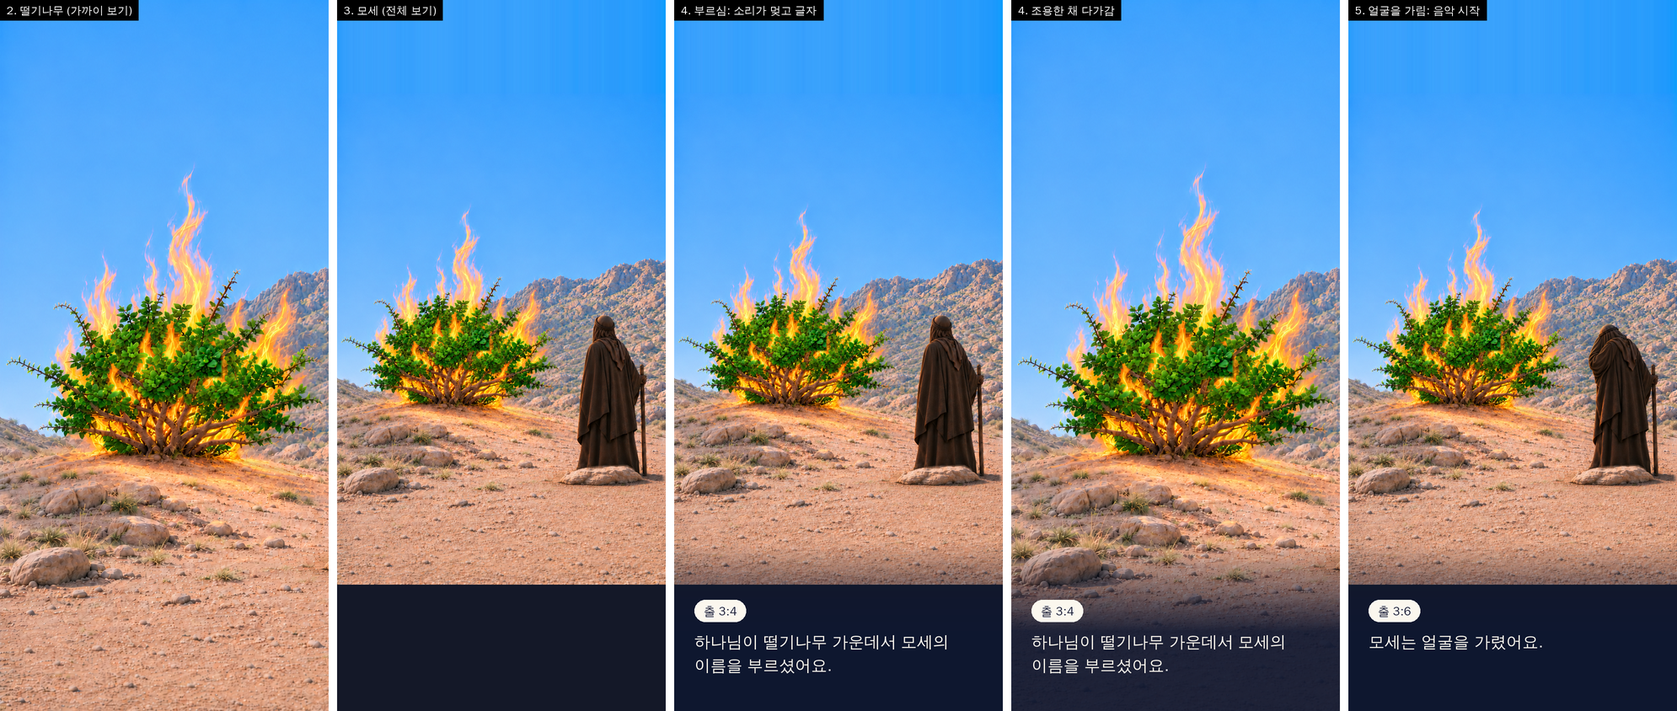
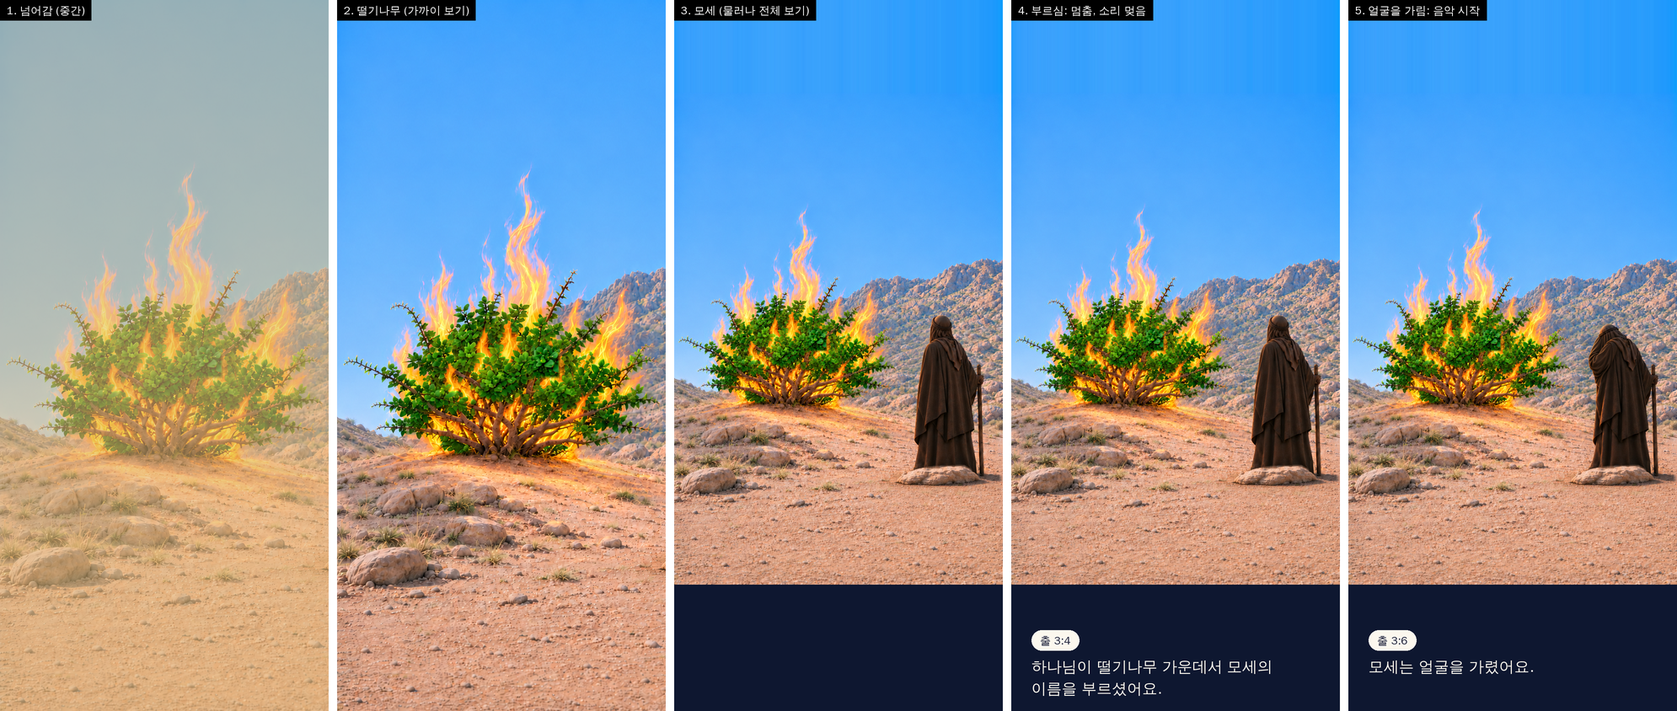
총괄: 압도 장면 설명서 세 번째 판 (별도 검증 2차 반영), 화면 모형 다시 만듦 (대표 승인 전)
- 화면은 한 번만 물러나고 부르심 때는 멈춘다 (출 3:5와 어긋나 보이지 않게)
- 그림 두 장은 겹치지 않고 한 번에 바꾼다, 새 문장 없음, 화면 크기별 식 고침
- 저장소가 공개 상태임을 적고 대표 결정 항목으로 올림

Claude-Session: https://claude.ai/code/session_011ypqq6uvjuWvRfnq3qoBtn

diff --git a/docs/09_떨기나무_압도장면.md b/docs/09_떨기나무_압도장면.md
@@ -1,85 +1,87 @@
 # 불붙은 떨기나무 압도 장면 · 정지 그림으로 보여 주는 방법
 
-- 상태: **대표 승인 전** (2026-11-19 총괄이 씀. 별도 검증 1차에서 나온 13가지를 반영해 고쳐 썼다. 재확인 중)
-- 무엇을 정하는 문서인가: 지시서 6.5절의 장면 설명(대표 승인 2026-11-13)은 '미리 그린 영상'을 생각하고 쓴 것이다. 2026-11-18에 대표가 GPT가 만든 정지 그림으로 바꾸기로 했다. 정지 그림으로 바꾸면 6.5절 그대로는 만들 수 없는 곳이 생긴다. 이 문서는 무엇이 달라지는지 밝히고 (2절), 그림을 어떤 순서와 움직임으로 보여 줄지 정한다.
+- 상태: **대표 승인 전** (2026-11-19 총괄이 씀. 별도 검증을 두 번 거쳤고 나온 지적을 반영해 두 번 고쳐 썼다. 세 번째 판)
+- 무엇을 정하는 문서인가: 지시서 6.5절의 장면 설명(대표 승인 2026-11-13)은 '미리 그린 영상'을 생각하고 쓴 것이다. 2026-11-18에 대표가 GPT가 만든 정지 그림으로 바꾸기로 했다. 정지 그림으로 바꾸면 6.5절 그대로는 만들 수 없는 곳이 생긴다. 이 문서는 무엇이 달라지는지 밝히고 (2절), 그림을 어떤 순서로 보여 줄지 정한다.
 - 근거 본문: 출 3:2-6. 지킬 규칙: 규칙서 3.3절, 지시서 6.1·6.2절, `docs/07_호렙_퀴즈와_동선.md` 4.3·4.4절.
-- 화면 모형: `docs/시안/압도장면_모형/모형_390x844.png`, `모형_375x667.png` (총괄이 지금 후보 그림으로 만든 것. 실제 게임 화면이 아니다)
+- 화면 모형: `docs/시안/압도장면_모형/` (총괄이 지금 후보 그림으로 만든 것. 실제 게임 화면이 아니다)
+- 이 문서에서 쓰는 말: '지금 후보 그림'은 GPT가 다듬은 떨기나무 그림(`docs/시안/떨기나무_압도_3/`, 카드 E-2c)이다. '마지막 다듬기'는 그 그림의 이어 붙인 흔적을 고치는 일(카드 E-2d)이다.
 
 ## 1. 한눈에 보기
 
-길이는 약 33초다. 아이는 보기만 하고 누르는 것이 없다. 쓰는 그림은 두 장이다 (모세가 서 있는 그림, 모세가 얼굴을 가린 그림).
+길이는 약 31초다. 아이는 보기만 하고 누르는 것이 없다. 쓰는 그림은 두 장이다 (모세가 서 있는 그림, 모세가 얼굴을 가린 그림). 두 그림은 모세만 다르고 나머지는 한 점도 다르지 않다.
 
-두 가지 보기를 오간다.
+화면은 **한 번만** 움직인다. 떨기나무를 크게 보여 주다가 천천히 물러나 모세까지 보여 준 뒤에는 끝까지 멈춰 있다.
 
 - **가까이 보기**: 불붙은 떨기나무가 화면 가로를 꽉 채운다 (세로로는 화면의 5분의 2쯤이고 위는 하늘, 아래는 땅이다). 모세가 서는 자리는 화면 오른쪽 밖이다.
 - **전체 보기**: 그림 전체가 보인다. 떨기나무와 그 오른쪽에 선 모세, 산, 하늘. 그림 아래에 글자를 쓰는 어두운 자리가 있다.
 
 | 순서 | 걸리는 시간 | 화면 | 글자 | 소리 |
 |---|---|---|---|---|
-| 0. 직전 | 2초 | 인형풍 세계. 부품 3을 줍고 최온이 "저 위를 봐!"라고 한 뒤 카메라가 언덕 위를 올려다보고 2초 머문다 | | 바람, 멀리 불 소리 |
-| 1. 넘어감 | 1.5초 | 화면이 밝은 종이색으로 잠깐 덮였다가 사실적인 그림이 나타난다 (가까이 보기) | 없음 | 바람이 잦아든다 |
-| 2. 떨기나무 | 5초 | 가까이 보기. 불붙은 떨기나무만 보인다. 잎은 초록 그대로다 | 없음 | 불 타는 소리가 차츰 커진다 |
-| 3. 모세 | 6초 | 화면이 천천히 물러나 전체 보기가 된다. 물러나면서 오른쪽에 선 모세의 뒷모습이 화면에 들어온다 | 없음 | 불 타는 소리 |
-| 4. 부르심 | 9초 | 글자가 천천히 떠오른다. 잠시 뒤 화면이 다시 떨기나무 쪽으로 천천히 다가간다 (가까이 보기) | 한 줄 (4절) + 출 3:4 | **모든 소리가 멎는다** |
-| 5. 얼굴을 가림 | 10초 | 화면이 다시 천천히 물러난다. 모세가 얼굴을 가리고 있다. 그대로 4초 머문다 | 한 줄 (4절) + 출 3:6 | 낮고 조용한 음악이 시작된다 |
-| 6. 돌아옴 | 1.5초 | 밝은 종이색을 거쳐 인형풍 세계로 돌아온다. 이어서 지금의 '지켜보기 1 / 5'가 시작된다 | | 음악이 이어지고 바람과 불 소리가 돌아온다 |
+| 0. 직전 | 약 3.5초 | 인형풍 세계. 부품 3을 줍고 최온이 "저 위를 봐!"라고 한 뒤 카메라가 언덕 위를 올려다보고 2초 머문다 | | 바람, 멀리 불 소리 |
+| 1. 넘어감 | 1.5초 | 화면이 모래색으로 잠깐 덮였다가 사실적인 그림이 나타난다 (가까이 보기) | 없음 | 바람과 불 소리가 절반으로 낮아진다 |
+| 2. 떨기나무 | 5초 | 가까이 보기. 불붙은 떨기나무만 보인다. 잎은 초록 그대로다. 화면이 아주 느리게 물러나기 시작한다 | 없음 | 불 타는 소리가 차츰 커진다 |
+| 3. 모세 | 6초 | 화면이 천천히 물러나 전체 보기가 된다. 오른쪽에 선 모세의 뒷모습이 화면에 들어온다 | 없음 | 불 타는 소리 |
+| 4. 부르심 | 8초 | **화면이 멈춘다.** 글자가 천천히 떠오른다 | 한 줄 (4절) + 출 3:4 | **모든 소리가 멎는다** |
+| 5. 얼굴을 가림 | 9초 | 그림이 얼굴을 가린 모세의 그림으로 바뀐다. 화면은 멈춰 있다 | 한 줄 (4절) + 출 3:6 | 낮고 조용한 음악이 시작된다 |
+| 6. 돌아옴 | 1.5초 | 모래색을 거쳐 인형풍 세계로 돌아온다. 이어서 지금의 '지켜보기 1 / 5'가 시작된다 | | 음악이 이어지고 바람과 불 소리가 돌아온다 |
 
 ## 2. 지시서 6.5절에서 달라지는 것 (대표가 알고 정할 것)
 
-정지 그림으로 바꾸면서, 그리고 대표가 고른 그림(E-2b 묶음)에 맞추면서 아래가 달라진다.
+정지 그림으로 바꾸면서, 그리고 대표가 바탕으로 정한 그림에 맞추면서 아래가 달라진다.
 
 | 6.5절 (2026-11-13 승인) | 이 문서 | 까닭 |
 |---|---|---|
-| 3번 "불티가 위로 솟고 열기로 공기가 일렁인다" | **불꽃이 움직이지 않는다. 불티와 일렁임이 없다** | 정지 그림이다. 그림 위에 효과를 덧그리면 얼굴이나 사람 같은 모양이 우연히 생길 수 있고 그것을 화면마다 확인할 수 없다 (지시서 6.2). 움직이는 것은 화면(다가감, 물러남)과 소리뿐이다 |
-| 5번 "불은 계속 타고" | 불은 그림 속에서 처음부터 끝까지 같은 모양이다 | 위와 같다 |
-| 4번 "모세의 뒷모습이 불빛에 어둡게 떠오른다", 아래 줄 "뒷모습과 윤곽만" | **맑은 낮이다. 모세의 옷 주름, 머리쓰개, 지팡이까지 또렷이 보인다.** 얼굴은 보이지 않는다 | 대표가 고른 그림이 밝은 낮 그림이다. 본문에 없는 '어두워짐'을 피하는 데는 이쪽이 더 맞다 |
+| 3번 "불티가 위로 솟고 열기로 공기가 일렁인다", 5번 "불은 계속 타고" | **불꽃이 31초 동안 움직이지 않는다. 불티와 일렁임이 없다.** 지금 인형풍 화면의 떨기나무는 불꽃과 불티가 움직이므로, 평소 화면보다 이 장면의 불이 덜 움직인다 | 정지 그림이다. 그림 위에 효과를 덧그리면 얼굴이나 사람 같은 모양이 우연히 생길 수 있고 그것을 화면마다 확인할 수 없다 (지시서 6.2). 이 장면에서 움직이는 것은 화면(한 번 물러남)과 소리뿐이다 |
+| 4번 "모세의 뒷모습이 불빛에 어둡게 떠오른다", 아래 줄 "뒷모습과 윤곽만" | **맑은 낮이다. 모세의 옷 주름, 머리쓰개, 지팡이까지 또렷이 보인다.** 얼굴은 보이지 않는다 | 대표가 바탕으로 정한 그림이 밝은 낮 그림이다. 본문에 없는 '어두워짐'을 피하는 데는 이쪽이 더 맞다 |
 | 아래 줄 "주변이 어두워 보이는 것은 카메라 효과로만" | 어두워지는 것이 없다 | 그림이 어둡지 않다 |
-| 5번 글자가 한 가지 | 나이 단계마다 말투가 다른 세 가지 (4절) | 게임의 다른 글과 맞춘다 |
+| 6번 "모세가 얼굴을 가린다" (움직임) | **얼굴을 가리는 움직임은 나오지 않는다.** 서 있는 그림이 얼굴을 가린 그림으로 한 번에 바뀐다 | 정지 그림 두 장이다. 두 그림을 천천히 겹치면 그 사이에 머리가 둘인 반투명한 사람 모양이 생긴다 (3.3절) |
 | 6번에는 글자가 없다 | **글자 한 줄을 넣는다** (출 3:6) | 8~10세가 그림만 보고는 무슨 일인지 모를 수 있다. 장절로 성경에 이어 준다 |
+| 5번 글자가 한 가지 | 나이 단계마다 말투가 다른 세 가지 (4절) | 게임의 다른 글과 맞춘다 |
 | 7번 "성경책에서 직접 읽어 보세요" 안내 | 돌아온 뒤 지켜보기 1 / 5에서 온우가 하는 말로 대신한다 | 이미 같은 뜻의 말이 있다 (7절) |
+| 2번·3번에서 화면이 영상으로 "넘어간다" | 모래색 한 가지를 거쳐 넘어간다 | 인형풍 화면과 그림을 직접 겹치면 인형 모세와 아이들이 불 위에 비쳐 보일 수 있다 (3.3절) |
 | 1번 소리 "바람, 양 떼 소리" | 바람, 멀리 불 소리 | 지금 게임에 양 떼 소리가 없다. 새 소리를 만들지 않는다 |
-| (6.5절에 없음) | 화면이 떨기나무로 다가갔다 물러나는 움직임이 두 번 있다 | 그림이 멈춰 있어서 화면을 움직인다. 모세의 모습이 바뀌는 순간을 화면 밖에서 처리하려는 것이기도 하다 (3.3절) |
-| 길이 20~40초, 처음에는 끝까지 보고 다시 볼 때 건너뛴다 | 약 33초, 같다 | |
-
-그 밖에 알고 가는 점: 그림 속 모세의 지팡이는 곧고, 인형풍 모세의 지팡이는 위가 굽었다. 그림을 고칠 때 맞출지 대표가 정한다 (권장: 그대로 둔다. 뒷모습이고 화면이 바뀌는 사이라 눈에 잘 띄지 않는다).
+| 아래 줄 "인형풍 모세와 생김새가 어긋나 보이지 않는다" | 옷 색이 다르다 (인형풍 모세는 밝은 속옷에 붉은 갈색 겉옷, 그림은 온통 짙은 갈색). 지팡이도 다르다 (인형풍은 위가 굽었고 그림은 곧다) | 그림이 또렷해서 차이가 보인다. ⚠ 눈에 거슬리는지는 만든 뒤 대표가 보고 정한다 |
+| 길이 20~40초, 처음에는 끝까지 보고 다시 볼 때 건너뛴다 | 약 31초, 같다 | 처음 볼 때는 31초 동안 건너뛸 수 없다 |
 
 ## 3. 화면
 
 ### 3.1 순서별 움직임
 
-- 다가가고 물러나는 움직임은 모두 천천히 시작해 천천히 멈춘다. 흔들림, 빠른 확대, 번쩍임이 없다.
-- 1번 (넘어감): 인형풍 화면이 0.7초 동안 밝은 종이색(게임의 종이색, 아이보리)으로 덮이고, 0.8초 동안 그 위로 그림이 가까이 보기로 나타난다. 인형풍 화면과 그림을 직접 겹치지 않는다 (3.3절).
-- 2번 (떨기나무): 가까이 보기에서 5초 멈춰 있다.
-- 3번 (모세): 6초에 걸쳐 전체 보기로 물러난다. 모세는 화면 오른쪽 끝에서 들어온다.
-- 4번 (부르심): 소리가 멎는다. 글자가 1초 동안 떠오른다. 2초 머문 뒤 6초에 걸쳐 가까이 보기로 다가간다. 글자는 그대로 있다. 소리가 없어도 글자와 화면의 움직임이 있어 고장으로 보이지 않는다.
-- 5번 (얼굴을 가림): 음악이 시작된다. 6초에 걸쳐 전체 보기로 물러난다 (처음 1초에 앞의 글자가 사라진다). 모세가 얼굴을 가린 모습으로 들어온다. 물러나기 시작하고 3초 뒤에 글자가 떠오른다. 다 물러난 뒤 4초 머문다.
-- 6번 (돌아옴): 0.7초 동안 밝은 종이색으로 덮이고 0.8초 동안 인형풍 세계(0번의 올려다보는 화면)가 나타난다.
+- 빠른 번쩍임, 흔들림, 빠른 확대가 없다. 움직임은 천천히 시작해 천천히 멈춘다.
+- 1번 (넘어감): 인형풍 화면이 0.7초 동안 모래색(게임의 모래색)으로 덮이고, 곧바로 0.8초 동안 그 위로 그림이 가까이 보기로 나타난다. 다 덮인 채로 멈춰 있지 않는다.
+- 2번 (떨기나무): 가까이 보기. 5초 동안 아주 느리게 물러나기 시작한다 (전체 움직임의 20분의 1쯤). 소리를 꺼 둔 아이에게도 화면이 살아 있다는 것이 보이게 하려는 것이다.
+- 3번 (모세): 이어서 6초에 걸쳐 전체 보기까지 물러난다. 모세는 화면 오른쪽 끝에서 들어온다.
+- 4번 (부르심): 화면이 멈추고 소리가 멎는다. 글자가 1초 동안 떠오른다. 끝날 때 1초 동안 사라진다. 화면은 떨기나무 쪽으로 다가가지 않는다. 바로 다음 절에서 하나님이 가까이 오지 말라고 하시기 때문이다 (출 3:5).
+- 5번 (얼굴을 가림): 그림이 얼굴을 가린 모세의 그림으로 한 번에 바뀐다. 모세만 달라지고 떨기나무, 불, 산, 하늘, 땅은 한 점도 달라지지 않는다. 그때 음악이 시작된다. 1초 뒤에 글자가 1초 동안 떠오른다.
+- 6번 (돌아옴): 0.7초 동안 모래색으로 덮이고, 곧바로 0.8초 동안 인형풍 세계(0번의 올려다보는 화면)가 나타난다.
+- ⚠ 조용한 8초가 고장처럼 느껴지지 않는지, 그림이 한 번에 바뀌는 것이 어색하지 않은지는 만든 뒤 대표가 휴대폰으로 보고 정한다.
 
 ### 3.2 전체 보기의 모양
 
-- 그림의 가로가 화면 가로에 꽉 찬다. 휴대폰 화면이 그림보다 길쭉해서 남는 곳이 생긴다 (보통 휴대폰에서 화면 세로의 3분의 1쯤. 그림은 화면의 3분의 2쯤을 차지한다).
-- 남는 곳의 아래쪽은 글자 자리다. 어두운 남색 바탕이고 글자는 여기에만 쓴다. 글자가 떨기나무, 불, 모세를 가리지 않는다.
-- 남는 곳의 위쪽은 그림 맨 윗줄의 하늘색을 위로 이어 칠한다. 하늘이 위로 이어진 것처럼 보인다.
-- 화면이 짧은 휴대폰에서는 글자 자리가 그림의 맨 아래 땅 부분을 조금 덮는다. 모세가 선 바위까지는 덮지 않는다.
+- 그림의 가로가 화면 가로에 꽉 찬다. 휴대폰 화면이 그림보다 길쭉해서 남는 곳이 생긴다 (390×844 휴대폰에서 그림이 화면 세로의 약 70%를 차지한다. 화면 모형 참고).
+- 화면 맨 아래는 글자 자리다. 위에서 아래로 차츰 어두운 남색이 되고, 글자는 이 어두운 자리에만 쓴다. 화면이 물러나는 동안 서서히 나타난다. 글자가 떨기나무, 불, 모세, 모세가 선 바위를 가리지 않는다.
+- 그림 위에 남는 곳은 그림 맨 윗줄의 하늘색을 위로 이어 칠한다. 하늘이 위로 이어진 것처럼 보인다.
+- 화면이 짧은 휴대폰(인터넷 주소창이 보이는 화면 등)에서는 어두운 자리가 그림의 맨 아래 땅을 덮는다. 아주 짧은 화면에서는 그림을 조금 줄여서 모세가 선 바위가 가려지지 않게 한다 (10절).
 
 ### 3.3 그림이 바뀌는 순간에 지킬 것
 
-지시서 6.2절은 사람처럼 보이는 모양이 한 장면이라도 생기면 쓰지 않는다고 정했다. 두 그림을 겹쳐서 바꾸면 그 사이에 누구도 확인하지 않은 화면이 생긴다 (별도 검증에서 그림 둘을 반씩 겹쳐 보니 머리와 어깨가 둘인 반투명한 사람 모양이 나왔다). 그래서:
+지시서 6.2절은 사람처럼 보이는 모양이 한 장면이라도 생기면 쓰지 않는다고 정했다. 두 그림을 천천히 겹쳐서 바꾸면 그 사이에 누구도 확인하지 않은 화면이 생긴다 (별도 검증에서 그림 둘을 반씩 겹쳐 보니 머리와 어깨가 둘인 반투명한 사람 모양이 나왔다). 그래서:
 
-- **두 그림을 겹쳐서 바꾸지 않는다.** 모세가 서 있는 그림에서 얼굴을 가린 그림으로는, 가까이 보기에서 (모세 자리가 화면 밖일 때) 바꿔 끼운다. 두 그림은 떨기나무 쪽이 한 점도 다르지 않아서 바뀌는 것이 보이지 않는다 (총괄이 비교했다. 10절).
-- 인형풍 화면과 그림도 직접 겹치지 않는다. 밝은 종이색 한 가지를 거친다. 종이색 위에서 그림이 옅게 보일 뿐 두 화면이 섞이지 않는다.
+- **두 그림을 겹쳐서 바꾸지 않는다. 한 번에 바꾼다.** 화면에는 늘 대표가 승인한 그림 한 장만 있다.
+- 인형풍 화면과 그림도 직접 겹치지 않는다. 모래색 한 가지를 거친다. 모래색 위에서 그림이 옅게 보일 뿐 두 화면이 섞이지 않는다.
 - 그림 위에 불티, 반짝임, 일렁임, 빛줄기, 후광을 덧그리지 않는다.
-- 화면을 산 쪽으로 다가가지 않는다. 산의 바위에는 크게 확대하면 얼굴이나 집처럼 보일 수 있는 모양이 있다 (`docs/시안/떨기나무_압도_3/총괄_검토.md`). 가까이 보기보다 더 크게 다가가지 않는다.
+- 가까이 보기보다 더 크게 보여 주지 않는다. 산 쪽을 크게 보여 주지 않는다. 산의 바위에는 크게 확대하면 얼굴이나 집처럼 보일 수 있는 모양이 있다 (`docs/시안/떨기나무_압도_3/총괄_검토.md`).
+- 장면 한가운데에 화면 전체가 밝아지거나 어두워지는 일을 넣지 않는다. 본문에 없는 빛이나 어둠의 사건처럼 보이기 때문이다.
 
 ### 3.4 움직임 없이 보여 주는 방법
 
-아래 세 경우에는 다가가고 물러나는 움직임을 빼고 전체 보기에 멈춘 채로 보여 준다.
+아래 세 경우에는 가까이 보기와 물러나는 움직임을 빼고 처음부터 전체 보기에 멈춘 채로 보여 준다.
 
 - 휴대폰 설정에서 '움직임 줄이기'를 켠 아이
-- 가로가 세로보다 긴 화면처럼 가까이 보기를 만들 수 없는 화면 (10절)
+- 가로가 세로보다 긴 화면 (가까이 보기에 떨기나무가 다 들어가지 않는다)
 - 만든 뒤 가까이 보기가 흐릿하다고 대표가 판단한 경우
 
-이때의 순서: 넘어감 → 모세가 서 있는 그림을 전체 보기로 11초 → 부르심 (소리가 멎고 글자, 9초) → 밝은 종이색을 거쳐 (0.6초 덮이고 0.6초 나타남) 얼굴을 가린 그림 → 글자와 음악, 10초 → 돌아옴. 글자와 소리는 같다. 이 방법에서는 처음부터 모세가 보인다.
+이때의 순서: 넘어감 (1.5초) → 모세가 서 있는 그림을 전체 보기로 11초 (불 소리) → 부르심 8초 → 얼굴을 가림 9초 → 돌아옴 (1.5초). 글자, 소리, 그림이 바뀌는 방법, 전체 길이(31초)는 같다. 이 방법에서는 처음부터 모세가 보인다.
 
 ## 4. 화면에 쓰는 글자
 
@@ -88,19 +90,19 @@
 | 순서 | 8~10세 | 11~13세 | 14~19세 | 장절 표시 |
 |---|---|---|---|---|
 | 4. 부르심 | 하나님이 떨기나무 가운데서 모세의 이름을 부르셨어요. | 하나님이 떨기나무 가운데서 모세를 부르셨어요. | 하나님이 떨기나무 가운데서 모세를 부르셨다. | 출 3:4 |
-| 5. 얼굴을 가림 | 모세는 얼굴을 가렸어요. | 모세는 하나님 뵙기를 두려워해서 얼굴을 가렸어요. | 모세는 얼굴을 가렸다. | 출 3:6 |
+| 5. 얼굴을 가림 | 모세는 얼굴을 가렸어요. | 모세는 하나님 뵙기를 두려워해서 얼굴을 가렸어요. | 모세는 하나님 뵙기를 두려워하여 얼굴을 가렸다. | 출 3:6 |
 
 문구의 출처:
 
-- 8~10세와 11~13세의 네 문구는 지금 게임의 지켜보기 문구(`web/js/content.js` EX-01의 출 3:4, 출 3:6)에서 한 문장씩 그대로 가져왔다. 총괄이 글자 그대로 들어 있는 것을 확인했다.
-- 14~19세의 부르심 문구는 지시서 6.5절 5번의 문구에 마침표를 붙인 것이다.
-- 14~19세의 얼굴을 가림 문구 "모세는 얼굴을 가렸다."는 8~10세 문구를 14~19세 말투로 적은 새 문장이다. 지금 게임의 14~19세 문구("모세는 하나님 뵙기를 두려워하여 얼굴을 가렸다.")를 쓰지 않은 까닭: 개역개정 본문과 매우 닮았는데 이 장면에서는 그 한 줄만 크게 뜬다 (규칙서 7절은 개역개정 본문을 싣지 않기로 했다). ⚠ 지금 게임에 이미 들어 있는 그 문구도 같은 문제가 있는지 목회자 감수와 저작권 확인 때 함께 본다.
+- 새로 지은 문장이 없다. 14~19세의 부르심 문구를 뺀 다섯 문구는 지금 게임의 지켜보기 문구(`web/js/content.js` EX-01의 출 3:4, 출 3:6)에서 문장 하나 또는 문장의 한 부분을 글자 그대로 가져왔다. 총괄이 글자 그대로 들어 있는 것을 확인했다. 그 문구들은 독립 검증을 거쳤다 (지시서 2절).
+- 14~19세의 부르심 문구는 지시서 6.5절 5번의 문구(대표 승인)에 마침표를 붙인 것이다.
+- ⚠ 이 문구들은 성경 본문을 풀어 쓴 것이라 본문과 닮았다 (특히 11~13세와 14~19세의 얼굴을 가림 문구). 규칙서 7절은 개역개정 본문을 싣지 않기로 했다. 닮은 정도가 괜찮은지는 저작권 확인과 목회자 감수 때 게임의 다른 문구와 함께 본다. 이 장면에서는 한 줄만 크게 뜬다는 점을 그때 함께 알린다.
 
 그 밖에:
 
 - 1~3번에는 글자가 없다.
-- 글자는 화면 아래의 어두운 글자 자리에 쓴다. 장절 표시는 지금 게임의 장절 표시와 같은 모양으로 글자 위에 둔다. '말씀 조각' 같은 머리글은 붙이지 않는다.
-- 글자는 1초 동안 떠오르고 1초 동안 사라진다. 부르심 글자는 9초, 얼굴을 가림 글자는 7초 동안 보인다.
+- 글자는 화면 맨 아래의 어두운 자리에 쓴다. 장절 표시는 지금 게임의 장절 표시와 같은 모양으로 글자 위에 둔다. '말씀 조각' 같은 머리글은 붙이지 않는다.
+- 글자는 1초 동안 떠오른다. 부르심 글자와 얼굴을 가림 글자 모두 약 7초 동안 보인다.
 - 세 아이의 말("탐험대 이야기")은 이 장면에 넣지 않는다. 세 아이는 이 장면에서 화면에 나오지 않고 말하지 않는다.
 - 8~10세에게 글을 읽어 주는 기능(규칙서 5절)은 지금 게임에 없고 이 장면에도 넣지 않는다. 넣게 되면 부르심의 조용함과 겹치지 않게 다시 정한다.
 
@@ -110,18 +112,19 @@
 
 | 순서 | 소리 |
 |---|---|
-| 1. 넘어감 | 바람이 1.5초 동안 잦아든다 |
-| 2. 떨기나무, 3. 모세 | 불 타는 소리가 5초 동안 차츰 커진 뒤 그대로 이어진다. 가장 클 때의 크기는 지금 게임에서 아이가 떨기나무에 가장 가까이 갔을 때(넘지 못하는 선)의 크기다. 그보다 크게 하지 않는다 |
+| 1. 넘어감 | 바람과 불 타는 소리가 1.5초 동안 그때 크기의 절반으로 낮아진다 |
+| 2. 떨기나무 | 불 타는 소리만 5초에 걸쳐 차츰 커진다. 다 커졌을 때의 크기는 지금 게임에서 아이가 떨기나무에 가장 가까이 갔을 때(넘지 못하는 선)의 크기다. 그보다 크게 하지 않는다. 바람은 낮아진 그대로다 |
+| 3. 모세 | 그대로 이어진다 |
 | 4. 부르심 | 바람과 불 소리를 포함한 모든 소리가 0.5초에 걸쳐 멎고, 4번이 끝날 때까지 조용하다 |
 | 5. 얼굴을 가림 | 낮고 조용한 음악이 지금 게임의 지켜보기 음악과 같은 크기로 2초에 걸쳐 시작된다. 불과 바람 소리는 없다 |
 | 6. 돌아옴 | 음악이 이어지고, 바람과 불 소리가 평소 크기로 돌아온다 |
 
 - 하나님의 음성을 소리로 만들지 않는다. 목소리, 울림, 천둥, 종소리, 합창 같은 소리를 넣지 않는다 (지시서 6.2).
-- 소리 끄기 단추가 눌려 있으면 모든 소리가 꺼진 채로 같은 화면이 나온다. 이때 부르심의 조용함은 글자가 떠오르고 화면이 떨기나무로 다가가는 것으로 전해진다.
+- 소리 끄기 단추가 눌려 있거나 휴대폰이 무음이면 소리 없이 같은 화면이 나온다. 이때 부르심은 화면이 멈추고 글자가 떠오르는 것으로만 전해진다.
 
 ## 6. 건너뛰기와 다시 보기
 
-- 처음 볼 때는 건너뛸 수 없다. 화면을 눌러도 넘어가지 않는다.
+- 처음 볼 때는 건너뛸 수 없다. 화면을 눌러도 넘어가지 않는다 (약 31초).
 - 한 번 끝까지 본 뒤에 다시 이 장면에 오면 오른쪽 위에 "건너뛰기" 단추가 나온다. 누르면 6번(돌아옴)으로 간다.
 - 끝까지 보았는지는 그 기기 안에만 적어 둔다. 개인 정보는 적지 않는다 (규칙서 6절). 지금 게임에는 자녀 프로필이 없다. 프로필이 생기면 프로필마다 따로 적는다 (그때까지는 한 기기를 형제가 함께 쓰면 둘째 아이에게도 건너뛰기가 보인다).
 
@@ -131,7 +134,7 @@
 - 뒤: 인형풍 세계로 돌아와 지금의 지켜보기 1 / 5 ~ 5 / 5 (출 3:4, 3:5, 3:6, 3:7-8, 3:10-12)가 그대로 이어진다. 지켜보기의 문구와 순서는 바꾸지 않는다.
 - 압도 장면은 '먼저 본다', 지켜보기는 '성경에서 차례대로 확인한다'이다. 지켜보기 1 / 5에서 온우가 "하나님이 하신 말씀은 우리가 지어내면 안 돼. 성경책에서 직접 읽어 보자."라고 말한다.
 - 알고 가는 점: 압도 장면에서 모세가 얼굴을 가린 뒤 (출 3:6) 인형풍 세계로 돌아오면 인형풍 모세는 떨기나무 앞에 선 처음 모습이고, 지켜보기가 출 3:4부터 다시 짚는다. 출 3:4와 3:6이 두 번 나온다. 지시서 6.5절이 승인될 때부터 있던 흐름이다. ⚠ 화면으로 보았을 때 어색한지는 만든 뒤 대표가 보고 정한다.
-- 아이들은 압도 장면 동안 언덕 아래 제자리에 있다. 다가가지 않는다 (규칙서 3.3, `docs/07` 4.4절).
+- 아이들은 압도 장면 동안 언덕 아래 제자리에 있다. 다가가지 않는다 (규칙서 3.3, `docs/07` 4.4절). 가까이 보기는 아이들이 다가간 것이 아니라 그림을 크게 보여 주는 것이고, 하나님이 부르시기 전인 2번에만 나온다.
 
 ## 8. 성경 근거와 지킬 것
 
@@ -153,56 +156,64 @@
 
 본문에 근거가 없거나 본문과 순서가 달라 목회자 판단이 필요한 것 (`docs/07` 4.5절에 더한다):
 
+- 2번에서 불붙은 떨기나무만 화면에 크게 나오는 것. 불이 곧 하나님인 것처럼 읽히지 않는지. (부르심 글자가 나올 때는 떨기나무와 모세가 함께 보이는 전체 보기다.)
+- 하나님이 부르시는 순간을 소리가 멎는 것으로 나타내는 것 (지시서 6.2절이 목회자 확인이 필요하다고 한 것).
 - 잎이 초록이고 연기와 재가 없는 것. 본문은 사라지지 않았다, 타지 않는다고만 적는다 (출 3:2-3).
 - 그림 속 모세: 고개를 숙이고 소매로 얼굴을 가리는 모습 (본문은 얼굴을 가렸다고만 적는다), 옷차림과 머리쓰개, 지팡이를 짚은 것, 납작한 바위 뒤에 선 것, 떨기나무와의 거리와 모세가 향한 쪽.
 - 맑은 낮이라는 것, 떨기나무의 생김새와 크기.
-- 하나님이 부르시는 순간을 소리가 멎는 것으로 나타내는 것 (지시서 6.2절이 목회자 확인이 필요하다고 한 것).
-- 이 장면이 출 3:4에서 3:6으로 바로 이어지는 것. 3:5(신을 벗으라 하심)와 3:6 앞부분(하나님이 자신이 누구신지 밝히심)은 그림으로 보여 주지 않고 뒤의 지켜보기 글로 전한다.
+- 이 장면이 출 3:4에서 3:6으로 바로 이어지는 것. 모세의 대답(3:4 뒷부분), 3:5(가까이 오지 말고 신을 벗으라 하심), 3:6 앞부분(하나님이 자신이 누구신지 밝히심)은 그림으로 보여 주지 않고 뒤의 지켜보기 글로 전한다. 그래서 8~10세 글("모세는 얼굴을 가렸어요.")에는 얼굴을 가린 까닭이 없다. 까닭은 돌아온 뒤 지켜보기 3 / 5에 나온다.
 - 부르심의 글이 나오기 전에 모세가 이미 떨기나무 가까이에 서 있는 것. 본문은 모세가 보려고 오는 것을 보시고 부르셨다고 적는다 (출 3:4).
-- 화면이 떨기나무로 다가갔다가 물러나는 것 (보여 주는 방법이며 사건이 아니다).
 
 ## 9. 그림 파일
 
 - 쓰는 그림은 두 장이다: 모세가 서 있는 그림, 모세가 얼굴을 가린 그림. 떨기나무만 있는 그림은 이 장면에 쓰지 않는다 (가까이 보기가 그 구실을 한다).
-- 대표가 직접 보고 승인한 그림만 게임에 남긴다 (지시서 6.2). 지금 후보는 E-2c 그림(`docs/시안/떨기나무_압도_3/`)이고, 이어 붙인 흔적을 고치는 E-2d가 끝나면 그 그림을 대표가 보고 정한다.
-- **만드는 동안에는 지금 후보 그림을 '임시 그림'으로 넣어 만든다.** 그림이 확정되기를 기다리지 않고 장면을 만들어 보기 위해서다. 임시 그림이 든 채로는 밖으로 내보내지 않는다. 진행판에 '임시 그림'이라고 적어 둔다. 대표가 그림을 승인하면 파일만 바꿔 끼운다.
+- 대표가 직접 보고 승인한 그림만 게임에 남긴다 (지시서 6.2). 지금 후보 그림은 아직 승인 전이고, 마지막 다듬기가 끝나면 대표가 보고 정한다.
+- **만드는 동안에는 지금 후보 그림을 '임시 그림'으로 넣어 만든다** (대표가 12절 3번에서 허락하면). 그림이 확정되기를 기다리지 않고 장면을 만들어 보기 위해서다. 진행판에 '임시 그림'이라고 적어 둔다. 대표가 그림을 승인하면 파일만 바꿔 끼운다.
+- ⚠ **이 저장소는 지금 누구나 볼 수 있는 공개 상태다 (2026-11-19 총괄이 확인).** 그래서 저장소에 올린 시안 그림과 문서는 이미 밖에서 볼 수 있다. 임시 그림을 게임에 넣어 올리면 그것도 그렇다. GPT 그림 사용 조건의 약관 원문은 아직 확인하지 못했다. 저장소를 비공개로 바꿀지는 대표가 정한다 (12절 3번).
 - 게임용 파일: 원본(가로 1024, 세로 1536)을 자르거나 줄이지 않고 용량이 작은 사진 형식(JPG)으로만 바꾼다. 한 장 450KB 이하. 총괄이 만든다. 이것은 그림 스타일 가이드 5.2절(가로 900 × 세로 1200, 300KB 이하)과 다른 규격이다. 5.2절은 2D 시범판의 배경 그림 규격이고, 이 장면은 3D 게임 쪽이며 그림이 세로로 더 길다. **승인되면 그림 스타일 가이드에 5.3절 '압도 장면 그림'으로 더한다.**
-- 3D 미리보기 파일이 지금 약 2.3MB인데 그림 두 장이 들어가면 약 3.5MB가 된다 (추정). 처음 여는 데 걸리는 시간이 늘어난다. ⚠ 실제 휴대폰에서 얼마나 걸리는지는 만든 뒤 확인한다.
-- ⚠ 가까이 보기에서는 그림이 전체 보기보다 약 1.4배 크게 보인다. 흐릿해 보이는지는 만든 뒤 대표가 휴대폰으로 보고 정한다. 흐릿하면 3.4절의 방법으로 바꾼다.
-- ⚠ GPT 그림 사용 조건의 약관 원문은 아직 확인하지 못했다. 밖으로 내보내기 전에 확인한다.
+- 3D 미리보기 파일이 지금 약 2.4MB인데 그림 두 장이 들어가면 약 3.5MB가 된다 (추정). 처음 여는 데 걸리는 시간이 늘어난다. ⚠ 실제 휴대폰에서 얼마나 걸리는지는 만든 뒤 확인한다.
+- ⚠ 가까이 보기에서는 그림이 전체 보기보다 약 1.5배 크게 보인다. 덤불 한가운데의 덧댄 조각(마지막 다듬기에서 고칠 곳)도 그만큼 크게 보인다. 흐릿하거나 흠이 보이는지는 만든 뒤 대표가 휴대폰으로 보고 정한다. 그러면 3.4절의 방법으로 바꾼다.
 
 ## 10. 만드는 쪽을 위해 정해 둔 것 (대표는 건너뛰어도 된다)
 
-그림의 점은 왼쪽 위가 (0, 0)이고 가로 1024, 세로 1536이다. 아래 숫자는 E-2c 그림에서 총괄이 잰 값이다. 그림을 바꿔 끼울 때 다시 잰다.
+그림의 점은 왼쪽 위가 (0, 0)이고 가로 1024, 세로 1536이다. 아래 숫자는 지금 후보 그림에서 총괄이 잰 값이다. 그림을 바꿔 끼울 때 다시 잰다.
 
-- 떨기나무와 불: 가로 14~690, 세로 353~1009. 모세가 있는 곳: 가로 720~1023, 세로 684~1229. 두 그림은 가로 0~719가 한 점도 다르지 않다.
-- **바꿔 끼우는 기준은 가로 703 하나로 쓴다.** 가까이 보기에서 화면에 보이는 오른쪽 끝은 그림의 가로 703이다. 게임용 파일로 바꾼 뒤 두 그림의 가로 0~703이 같은지 다시 비교한다.
+- 떨기나무와 불: 가로 14~690, 세로 353~1009. 모세가 있는 곳: 가로 720~1023, 세로 684~1229 (모세가 선 바위의 아래 끝이 1229). 두 그림은 가로 0~719가 한 점도 다르지 않다.
+- 그림판: 그림 위쪽에 맨 윗줄의 색을 세로로 이어 칠한 하늘 띠를 붙여 하나로 다룬다. 화면은 이 그림판의 어디를 얼마나 크게 보여 주는지만 바꾼다. 그림판 밖(그림 아래와 좌우)은 게임의 남색이다.
+- 글자 자리: 전체 보기에서 화면 맨 아래 150을 남색으로 덮는다. 윗변에서 아래로 50에 걸쳐 차츰 진해지고 그 아래는 다 남색이다. 글자와 장절 표시는 다 진해진 곳에 쓴다. 3번에서 화면이 물러나는 동안 서서히 나타나고 6번까지 그대로 있다. 가까이 보기에는 없다. 글자가 다 들어가지 않으면 글씨를 줄이지 말고 글자 자리를 키우되, 아래 전체 보기의 식에 있는 150도 같은 값으로 바꾼다.
 - 화면의 가로를 W, 세로를 H라 한다 (게임 틀의 크기. 틀은 가로 560까지만 넓어진다).
-- 가까이 보기: 그림을 `max(W ÷ 703, H ÷ 1536)`배로 그린다. 보이는 곳의 오른쪽 끝을 그림의 가로 703에 맞춘다. 세로는 떨기나무의 가운데(세로 681)를 화면 가운데에 두되 그림 밖이 보이지 않게 한다. (390×844에서는 가로 0~703, 세로 0~1521이 보인다. 375×667에서는 가로 0~703, 세로 56~1306이 보인다.)
-- 전체 보기: 그림을 `W ÷ 1024`배로 그린다. 화면 맨 아래 150은 글자 자리다. 그림의 아랫변을 글자 자리 바로 위에 맞춘다. 그러면 그림이 화면 위로 넘치는 화면에서는 그림의 윗변을 화면 위에 맞추고 글자 자리가 그림 아래쪽을 덮게 둔다 (375×667에서 그림의 세로 1413부터 덮인다. 땅뿐이다). 그림 위에 남는 곳은 그림 맨 윗줄의 색을 세로로 이어 칠한다.
-- 글자 자리: 게임의 남색. 위쪽 50은 위로 갈수록 옅어진다. 글씨는 게임의 말씀 글씨, 종이색.
-- 움직임 없이 보여 주는 방법(3.4절)을 쓰는 화면: 가로가 세로보다 긴 화면, 그리고 세로가 가로의 1.5배보다 짧아 전체 보기의 그림이 화면보다 길어지는 화면. 이때는 그림 전체가 들어가게 줄이고 좌우를 남색으로 채운다.
+- 가까이 보기: 그림을 `W ÷ 703`배로 그린다. 그림의 가로 0~703이 화면 가로에 꽉 찬다 (모세는 720부터라 화면 밖이다). 세로는 떨기나무의 가운데(세로 681)를 화면 가운데에 두되 그림 아래 밖(남색)이 보이지 않게 한다. 화면이 아주 길어 그림 세로가 모자라면 그림 아랫변을 화면 아래에 맞추고 위는 하늘 띠가 보이게 한다.
+- 전체 보기: 화면 맨 아래 150은 글자 자리다. 그림을 `min(W ÷ 1024, (H − 150) ÷ 1300)`배로 그리고 가로 가운데에 둔다. 그림의 아랫변을 글자 자리 윗변에 맞추되, 그러면 그림 윗변이 화면 위로 넘치는 화면에서는 그림 윗변을 화면 위 끝에 맞춘다 (그림 아래쪽이 글자 자리 밑으로 들어간다. 어느 화면에서든 그림의 세로 1300 위쪽은 글자 자리에 가리지 않는다). 예: 390×844에서는 그림 위에 하늘 띠가 109 보이고 글자 자리는 그림을 가리지 않는다. 375×667에서는 그림의 세로 1412부터 글자 자리에 들어간다. 360×560에서는 그림이 조금 줄어 좌우에 남색이 19씩 보이고 세로 1300부터 글자 자리에 들어간다.
+- 가까이 보기에서 전체 보기로 물러날 때는 그림판을 그리는 배율과 자리를 함께 고르게 바꾼다 (천천히 시작해 천천히 멈춤). 2번의 5초 동안 전체 움직임의 5%를, 3번의 6초 동안 나머지를 움직인다.
+- 가로가 세로보다 긴 화면에서는 3.4절의 방법(처음부터 전체 보기)을 쓴다.
+- 넘어갈 때 거치는 색은 게임의 모래색(#E4BE7E)이다. 글자 자리의 글씨는 게임의 말씀 글씨, 종이색이다.
+- 0번: 최온의 말에서 '다음'을 누르면 지켜보기 창과 음악을 시작하지 않고 올려다보는 카메라로 간다. 카메라가 자리 잡은 뒤 2초를 센다 (지금 카메라가 자리 잡는 데 약 1.5초 걸린다). 그 뒤 1번을 시작한다. 6번이 끝나면 지금 게임이 최온의 말 뒤에 하던 일(지켜보기 1 / 5 창, 음악)을 그대로 한다.
 - 장면 동안 숨기는 것: 위쪽 표시줄, 목표 문구, 도감 단추, 사진기 단추, 소리 단추, 조종 막대. "건너뛰기"만 조건이 될 때 보인다. 소리를 꺼 둔 상태는 그대로 따른다.
-- 장면 동안에는 떨기나무와의 거리로 불 소리를 정하는 지금의 계산을 멈춘다.
+- 장면 동안에는 떨기나무와의 거리로 불 소리를 정하는 지금의 계산을 멈춘다. 4번의 '소리가 멎음'은 게임의 전체 소리 크기를 0.5초 뒤에 평소의 100분의 1 이하로 만드는 것이다.
+- 5번에서 그림을 바꾸는 때는 4번의 글자가 다 사라진 바로 뒤다. 바꾸기 직전과 직후에 화면을 찍는다.
+- 6번에서는 글자와 그림이 함께 모래색에 덮인다.
 - 그림 준비: 호렙 산이 시작될 때 두 그림을 미리 불러 둔다. 0번의 2초가 지나도 준비되지 않았으면 3초까지 더 기다린다. 그래도 안 되면 이 장면 없이 지켜보기로 가고, 본 것으로 적지 않는다.
 - 중간에 게임을 나갔다 돌아오면: 멈춰 있다가 그 순서(1~6번)의 처음부터 다시 한다. 소리도 그 순서의 처음 상태로 맞춘다.
 - '끝까지 보았음'은 6번이 시작될 때 적는다. 건너뛰기를 누르면 소리는 6번과 같이 돌아온다.
-- 자동 조작 때는 장면의 시간을 5분의 1로 줄이는 시험용 값을 둔다 (전체 점검이 나이 단계마다 33초씩 길어지지 않게). 화면 사진은 줄인 시간에서도 순서마다 찍는다.
+- 게임용 그림 파일은 `web3d/assets/awe/bush_2.jpg`(서 있는 모세), `bush_3.jpg`(얼굴을 가린 모세)에 둔다. 3D 미리보기에 묶는 방법은 지금 인물 모델을 묶는 방법을 따른다.
+- 자동 조작 때는 순서마다 멈췄다가 신호를 받으면 다음 순서로 가는 시험용 값을 둔다 (전체 점검이 나이 단계마다 31초씩 길어지지 않게, 그리고 순서마다 화면을 찍을 수 있게).
 
 ## 11. 다 만든 뒤 확인하는 방법
 
-1. 자동 조작이 나이 단계 셋에서 이 장면을 끝까지 지나가고 화면을 찍는다: 1번의 중간(종이색 위에 그림이 옅게 보일 때), 2번, 3번의 끝, 4번의 글자가 뜬 때, 4번의 끝(바꿔 끼우기 직전)과 5번의 처음(직후), 5번의 끝, 6번의 중간. 화면 크기는 390×844와 375×667 두 가지다.
-2. 4번과 5번의 글자가 4절의 표와 글자 그대로 같은지 자동으로 맞춰 본다.
-3. 바꿔 끼우기 직전과 직후의 사진이 같은지 자동으로 비교한다.
-4. 4번 동안 소리 크기 값이 0인지 자동 조작이 읽어 확인한다.
-5. 총괄이 찍힌 사진을 모두 열어 본다. 두 그림이나 인형풍 화면이 겹쳐 보이는 사진이 없는지, 그림 위에 덧그린 것이 없는지, 글자가 떨기나무와 모세를 가리지 않는지 본다.
-6. 대표가 휴대폰에서 직접 본다. 그림, 길이, 소리, 조용한 9초, 돌아온 뒤의 흐름을 보고 승인하거나 고칠 곳을 말한다.
-7. 목회자 감수 때 8절의 '목회자 판단이 필요한 것'을 여쭌다.
+1. 자동 조작이 나이 단계 셋에서 이 장면을 끝까지 지나가고 화면을 찍는다: 1번의 중간(모래색 위에 그림이 옅게 보일 때), 2번의 처음, 3번의 끝, 4번의 글자가 뜬 때, 5번에서 그림을 바꾸기 직전과 직후, 5번의 글자가 뜬 때, 6번의 중간.
+2. 화면 크기 세 가지로 찍는다: 390×844, 390×664 (인터넷 주소창이 보일 때), 가로가 긴 화면 844×390 (3.4절의 방법). '움직임 줄이기'를 켠 경우도 한 번 찍는다.
+3. 4번과 5번의 글자가 4절의 표와 글자 그대로 같은지 자동으로 맞춰 본다.
+4. 그림을 바꾸기 직전과 직후의 사진에서 모세 둘레 밖(그림의 가로 0~719에 해당하는 곳)이 같은지 자동으로 비교한다.
+5. 4번 동안 게임의 전체 소리 크기 값이 평소의 100분의 1 이하인지 자동 조작이 읽어 확인한다.
+6. 총괄이 찍힌 사진을 모두 열어 본다. 두 그림이나 인형풍 화면이 겹쳐 보이는 사진이 없는지, 그림 위에 덧그린 것이 없는지, 글자가 떨기나무·모세·바위를 가리지 않는지 본다.
+7. 대표가 휴대폰에서 직접 본다. 그림, 길이, 소리, 조용한 8초, 그림이 바뀌는 순간, 돌아온 뒤의 흐름을 보고 승인하거나 고칠 곳을 말한다.
+8. 목회자 감수 때 8절의 '목회자 판단이 필요한 것'을 여쭌다.
 
 ## 12. 대표가 정할 것
 
-1. 이 방법대로 만들어도 되는가. 2절의 달라지는 것(불꽃이 움직이지 않는다, 불티와 일렁임이 없다, 모세가 어두운 윤곽이 아니라 또렷이 보인다)을 받아들이는가. (총괄 권장: 예)
+1. **정지 그림으로 이렇게 만들어 볼 것인가.** 알고 정할 것: 이 장면의 불은 31초 동안 움직이지 않는다 (지금 인형풍 화면의 불은 움직인다). 모세가 어두운 윤곽이 아니라 또렷이 보인다. 얼굴을 가리는 움직임 없이 그림이 한 번에 바뀐다. 처음 볼 때는 31초 동안 건너뛸 수 없다. (총괄 권장: 예. 만들어서 대표가 휴대폰으로 본 뒤에 판단한다. 보고 나서 "황홀하지 않다"면 지시서 6.4절에 남겨 둔 '미리 그린 영상' 방법을 다시 본다. 그 방법은 아직 시험해 보지 않았다.)
 2. 얼굴을 가리는 순서에 글자 한 줄을 넣는가. (총괄 권장: 넣는다)
-3. 그림이 확정되기 전에 지금 후보 그림을 임시 그림으로 넣어 만들기 시작해도 되는가. (총괄 권장: 예. 밖으로 내보내지 않는다)
+3. 그림이 확정되기 전에 지금 후보 그림을 임시 그림으로 넣어 만들기 시작해도 되는가. 저장소가 공개 상태라 임시 그림도 밖에서 볼 수 있게 된다. (총괄 권장: 저장소를 비공개로 바꾼 뒤에 예. 비공개로 바꾸면 다른 계정의 GPT가 저장소를 볼 수 있게 대표가 초대해 주어야 한다)
+4. 그림 속 모세의 지팡이(곧음)와 옷 색을 인형풍 모세에 맞춰 고칠 것인가. (총괄 권장: 그대로 두고, 만든 뒤 보고 거슬리면 고친다)
 
 승인되면 총괄이 임시 그림 파일을 만들고, 그림 스타일 가이드에 5.3절을 더하고, 코드 줄에 작업 카드를 넣는다. 구현은 작업 줄의 계정(GPT·Gemini)이 하고, 총괄이 11절대로 확인한다.

diff --git a/docs/시안/압도장면_모형/읽어보기.md b/docs/시안/압도장면_모형/읽어보기.md
@@ -1,5 +1,5 @@
 # 압도 장면 화면 모형 (2026-11-19 총괄)
 
-- `docs/09_떨기나무_압도장면.md`의 순서 2~5를 휴대폰 두 가지 크기(390×844, 375×667)로 그려 본 것이다.
-- 총괄이 E-2c 후보 그림(`docs/시안/떨기나무_압도_3/`)을 자르고 줄여 붙여 만들었다. GPT가 만든 그림이 아니고 실제 게임 화면도 아니다. 글씨체와 글자 자리의 모양은 실제와 다를 수 있다.
-- 왼쪽부터: 2번 떨기나무 (가까이 보기) / 3번 모세 (전체 보기) / 4번 부르심 (글자) / 4번 조용한 채 다가감 / 5번 얼굴을 가림.
+- `docs/09_떨기나무_압도장면.md`의 순서 1~5를 휴대폰 화면 두 가지(390×844, 그리고 인터넷 주소창이 보일 때인 390×664)로 그려 본 것이다.
+- 총괄이 지금 후보 그림(`docs/시안/떨기나무_압도_3/`)을 자르고 줄여 붙여 만들었다. GPT가 만든 그림이 아니고 실제 게임 화면도 아니다. 글씨체는 실제와 다르다.
+- 왼쪽부터: 1번 넘어감의 중간 (모래색 위에 그림이 옅게) / 2번 떨기나무 (가까이 보기) / 3번 모세 (물러나 전체 보기) / 4번 부르심 (멈춤, 글자) / 5번 얼굴을 가림 (그림이 한 번에 바뀜, 글자).
